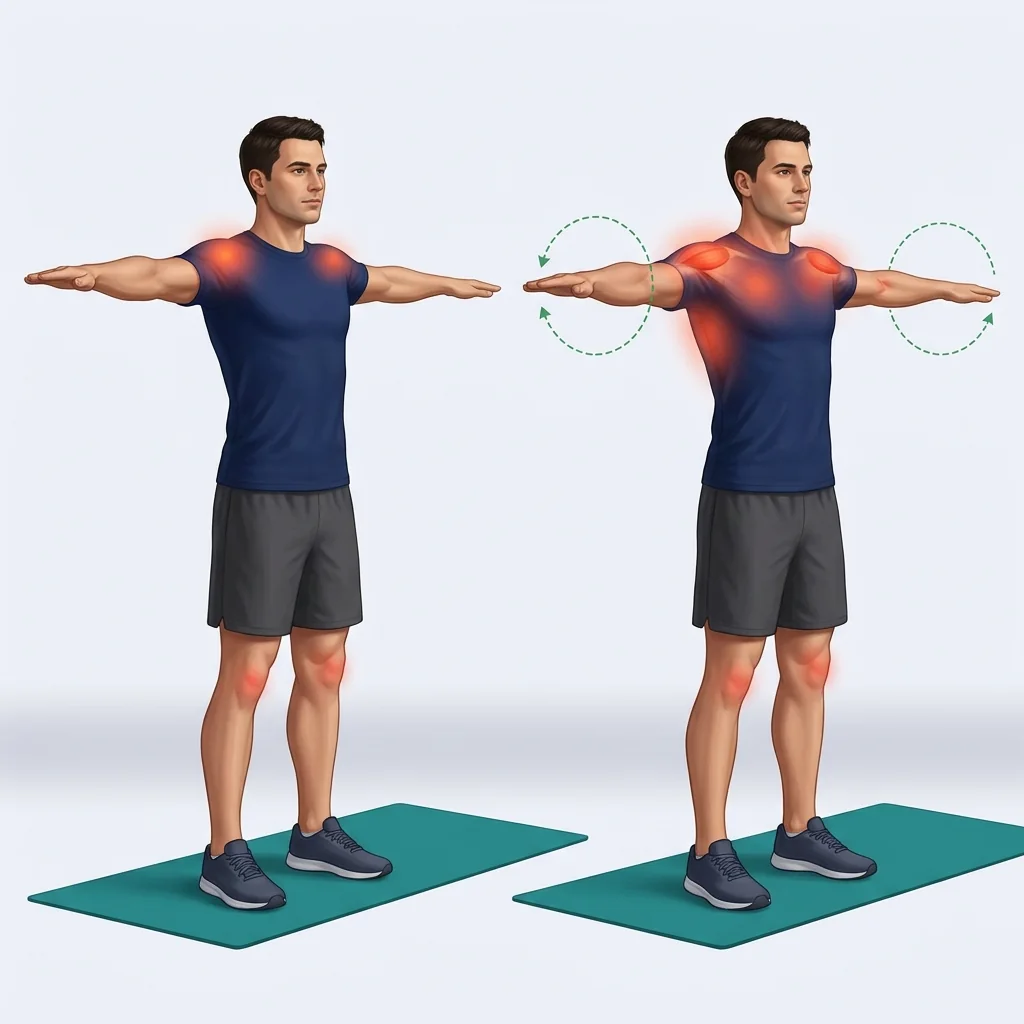
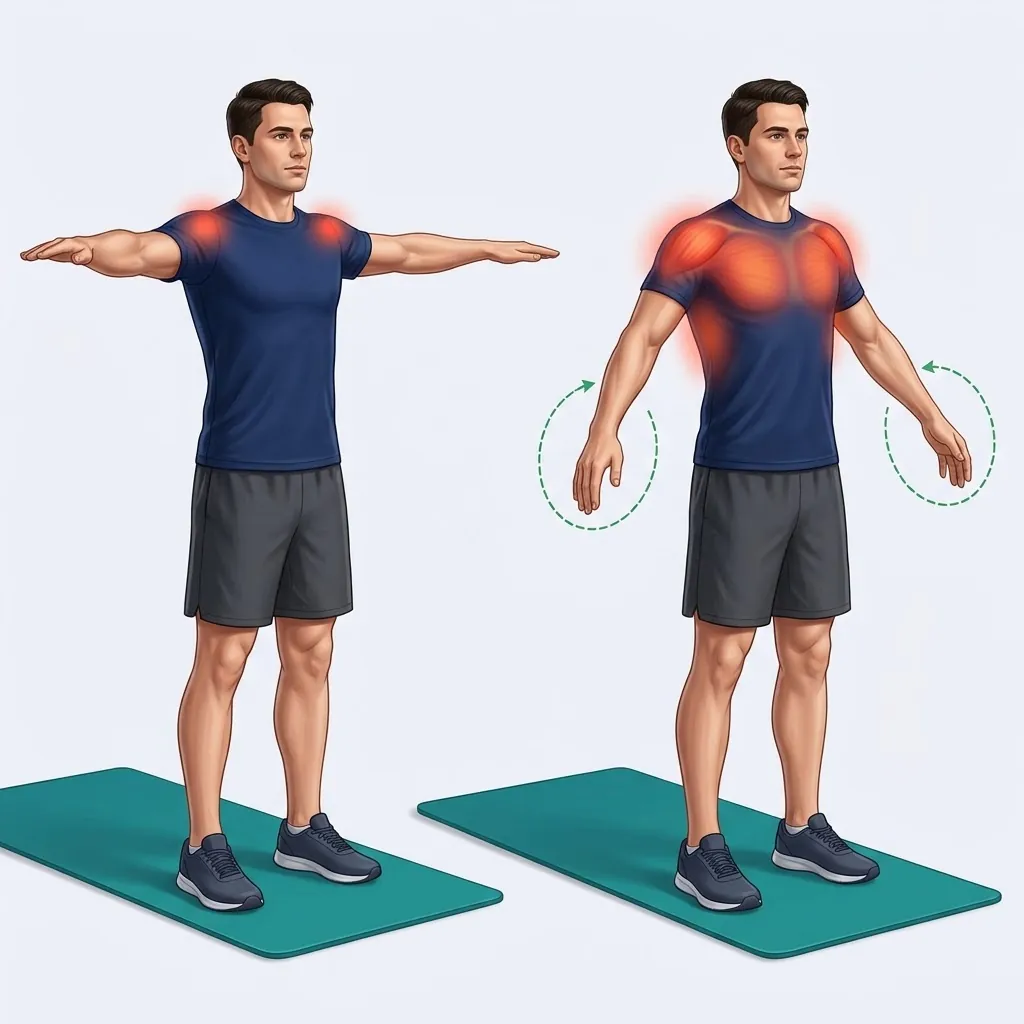
Обновлены иллюстрации упражнений (39 картинок: новые и замена существующих), v3.25
Claude-Session: https://claude.ai/code/session_01XgrbYg3JUrHn8geZsbQQRV

Changed region(s): [[0.0, 0.0625, 1.0, 0.9375]]

diff --git a/trainui.js b/trainui.js
@@ -5,7 +5,7 @@ import * as TR from "./train.js?v=24";
 
 /* Картинки упражнений (папка img/): `${id}-${vk}-${n}.webp`. В PHOTOS число картинок для пары (упражнение:вариант).
    Одна картинка показывается как есть, две листаются свайпом. Нет картинки — ничего не показываем (рисунки-схемы убраны в v2.69). */
-const PHOTOS = new Map([["bentrow:band", 2], ["birddog:bw", 1], ["bridge:bw", 1], ["calf:bw", 1], ["chestpress:band", 1], ["crunch:bw", 1], ["curl:band", 1], ["deadbug:bw", 1], ["donkey:bw", 1], ["facepull:band", 2], ["frontraise:band", 1], ["legraise:bw", 1], ["lunge:bw", 1], ["march:bw", 1], ["mob_ankle:bw", 1], ["mob_arm:bw", 1], ["mob_catcow:bw", 1], ["mob_elbow:bw", 1], ["mob_hip:bw", 1], ["mob_knee:bw", 1], ["mob_legswing:bw", 1], ["mob_neck:bw", 1], ["mob_shoulder:bw", 1], ["mob_twist:bw", 1], ["mob_wrist:bw", 1], ["mtnclimber:bw", 1], ["plank:bw", 1], ["pulldown:band", 2], ["pushdown:band", 1], ["pushup:bw", 1], ["rdl:band", 2], ["row:band", 2], ["run_tm:bw", 1], ["shoulderpress:band", 1], ["squat:band", 2], ["squat:bw", 2], ["st_calf:bw", 1], ["st_child:bw", 1], ["st_ham:band", 1], ["st_quad:bw", 1], ["superman:bw", 1], ["triext:band", 1], ["walk_out:bw", 1], ["walk_tm:bw", 1], ["wristcurl:band", 1], ]);
+const PHOTOS = new Map([["bentrow:band", 2], ["bentrow:db", 2], ["bike_out:bw", 1], ["birddog:bw", 1], ["bridge:bw", 1], ["bridge:db", 1], ["calf:bw", 1], ["calf:db", 1], ["chestpress:band", 1], ["chestpress:cable", 1], ["crunch:bw", 1], ["curl:band", 1], ["curl:db", 1], ["deadbug:bw", 1], ["dips:bw", 1], ["donkey:band", 1], ["donkey:bw", 1], ["facepull:band", 2], ["facepull:cable", 1], ["floorpress:db", 1], ["frontraise:band", 1], ["frontraise:db", 1], ["hammer:db", 1], ["legraise:bw", 1], ["lunge:bw", 1], ["lunge:db", 1], ["march:bw", 1], ["mob_ankle:bw", 1], ["mob_arm:bw", 1], ["mob_catcow:bw", 1], ["mob_elbow:bw", 1], ["mob_hip:bw", 1], ["mob_knee:bw", 1], ["mob_legswing:bw", 1], ["mob_neck:bw", 1], ["mob_shoulder:bw", 1], ["mob_twist:bw", 1], ["mob_wrist:bw", 1], ["mtnclimber:bw", 1], ["plank:bw", 1], ["pulldown:band", 2], ["pulldown:cable", 1], ["pullup:bw", 1], ["pushdown:band", 1], ["pushdown:cable", 1], ["pushup:bw", 1], ["pushup:knees", 1], ["rdl:band", 2], ["rdl:db", 2], ["row:band", 2], ["row:bandf", 1], ["row:cable", 1], ["run_tm:bw", 1], ["shoulderpress:band", 1], ["shoulderpress:db", 1], ["squat:band", 2], ["squat:bw", 2], ["squat:db", 1], ["st_calf:bw", 1], ["st_child:bw", 1], ["st_ham:band", 1], ["st_quad:bw", 1], ["stepup:bw", 1], ["stepup:db", 1], ["superman:bw", 1], ["triext:band", 1], ["triext:db", 1], ["walk_out:bw", 1], ["walk_street:bw", 1], ["walk_tm:bw", 1], ["wristcurl:band", 1], ["wristcurl:db", 1], ]);
 /* Видео упражнений (папка vid/): `${id}-${vk}.mp4` (квадрат, без звука) и постер `${id}-${vk}.jpg`. Показываются первым слайдом только в карточке упражнения и режиме тренировки. */
 const VIDEOS = new Set(["frontraise:band"]);
 // Первая иллюстрация упражнения для списков (любой вариант, лучше без инвентаря)

diff --git a/app.js b/app.js
@@ -13,7 +13,7 @@ import {
 import { STARTER, STARTER_CATS } from "./starter.js?v=51";
 import { DRINKS, DRINK_CATS, DRINK_BY_ID } from "./drinks.js?v=30";
 import * as TR from "./train.js?v=24";
-import { createTrainUI } from "./trainui.js?v=67";
+import { createTrainUI } from "./trainui.js?v=68";
 
 const firebaseConfig = {
   apiKey: "AIzaSyAItOJn5dO44kAy9xjrigslIdsE0au_y0A",
@@ -76,8 +76,8 @@ function dayLabel(s) {
 // Всплывающие оповещения отключены полностью (по просьбе пользователя): функция оставлена пустой, чтобы не менять вызовы по коду
 function toast() {}
 
-const APP_VERSION = 325;
-const APP_VERSION_LABEL = "3.24"; // показывается пользователю; APP_VERSION (число) — только для проверки актуальности кэша
+const APP_VERSION = 326;
+const APP_VERSION_LABEL = "3.25"; // показывается пользователю; APP_VERSION (число) — только для проверки актуальности кэша
 
 /* ================= Состояние ================= */
 const HISTORY_DAYS = 90; // сколько последних дней подписка держит «вживую»; всё, что старше, подгружается по запросу и никогда не удаляется

diff --git a/index.html b/index.html
@@ -11,7 +11,7 @@
   <meta name="mobile-web-app-capable" content="yes">
   <meta name="apple-mobile-web-app-status-bar-style" content="default">
   <meta name="apple-mobile-web-app-title" content="Health">
-  <meta name="app-label" content="3.24">
+  <meta name="app-label" content="3.25">
   <link rel="manifest" href="manifest.webmanifest">
   <link rel="apple-touch-icon" href="apple-touch-icon.png?v=7">
   <link rel="icon" type="image/png" href="icon-192.png?v=7">
@@ -65,6 +65,6 @@
   <div id="loading" class="loading hidden"><div class="spinner" aria-label="Загрузка"></div></div>
   <div id="toast" class="toast" role="status" aria-live="polite"></div>
 
-  <script type="module" src="app.js?v=325"></script>
+  <script type="module" src="app.js?v=326"></script>
 </body>
 </html>
